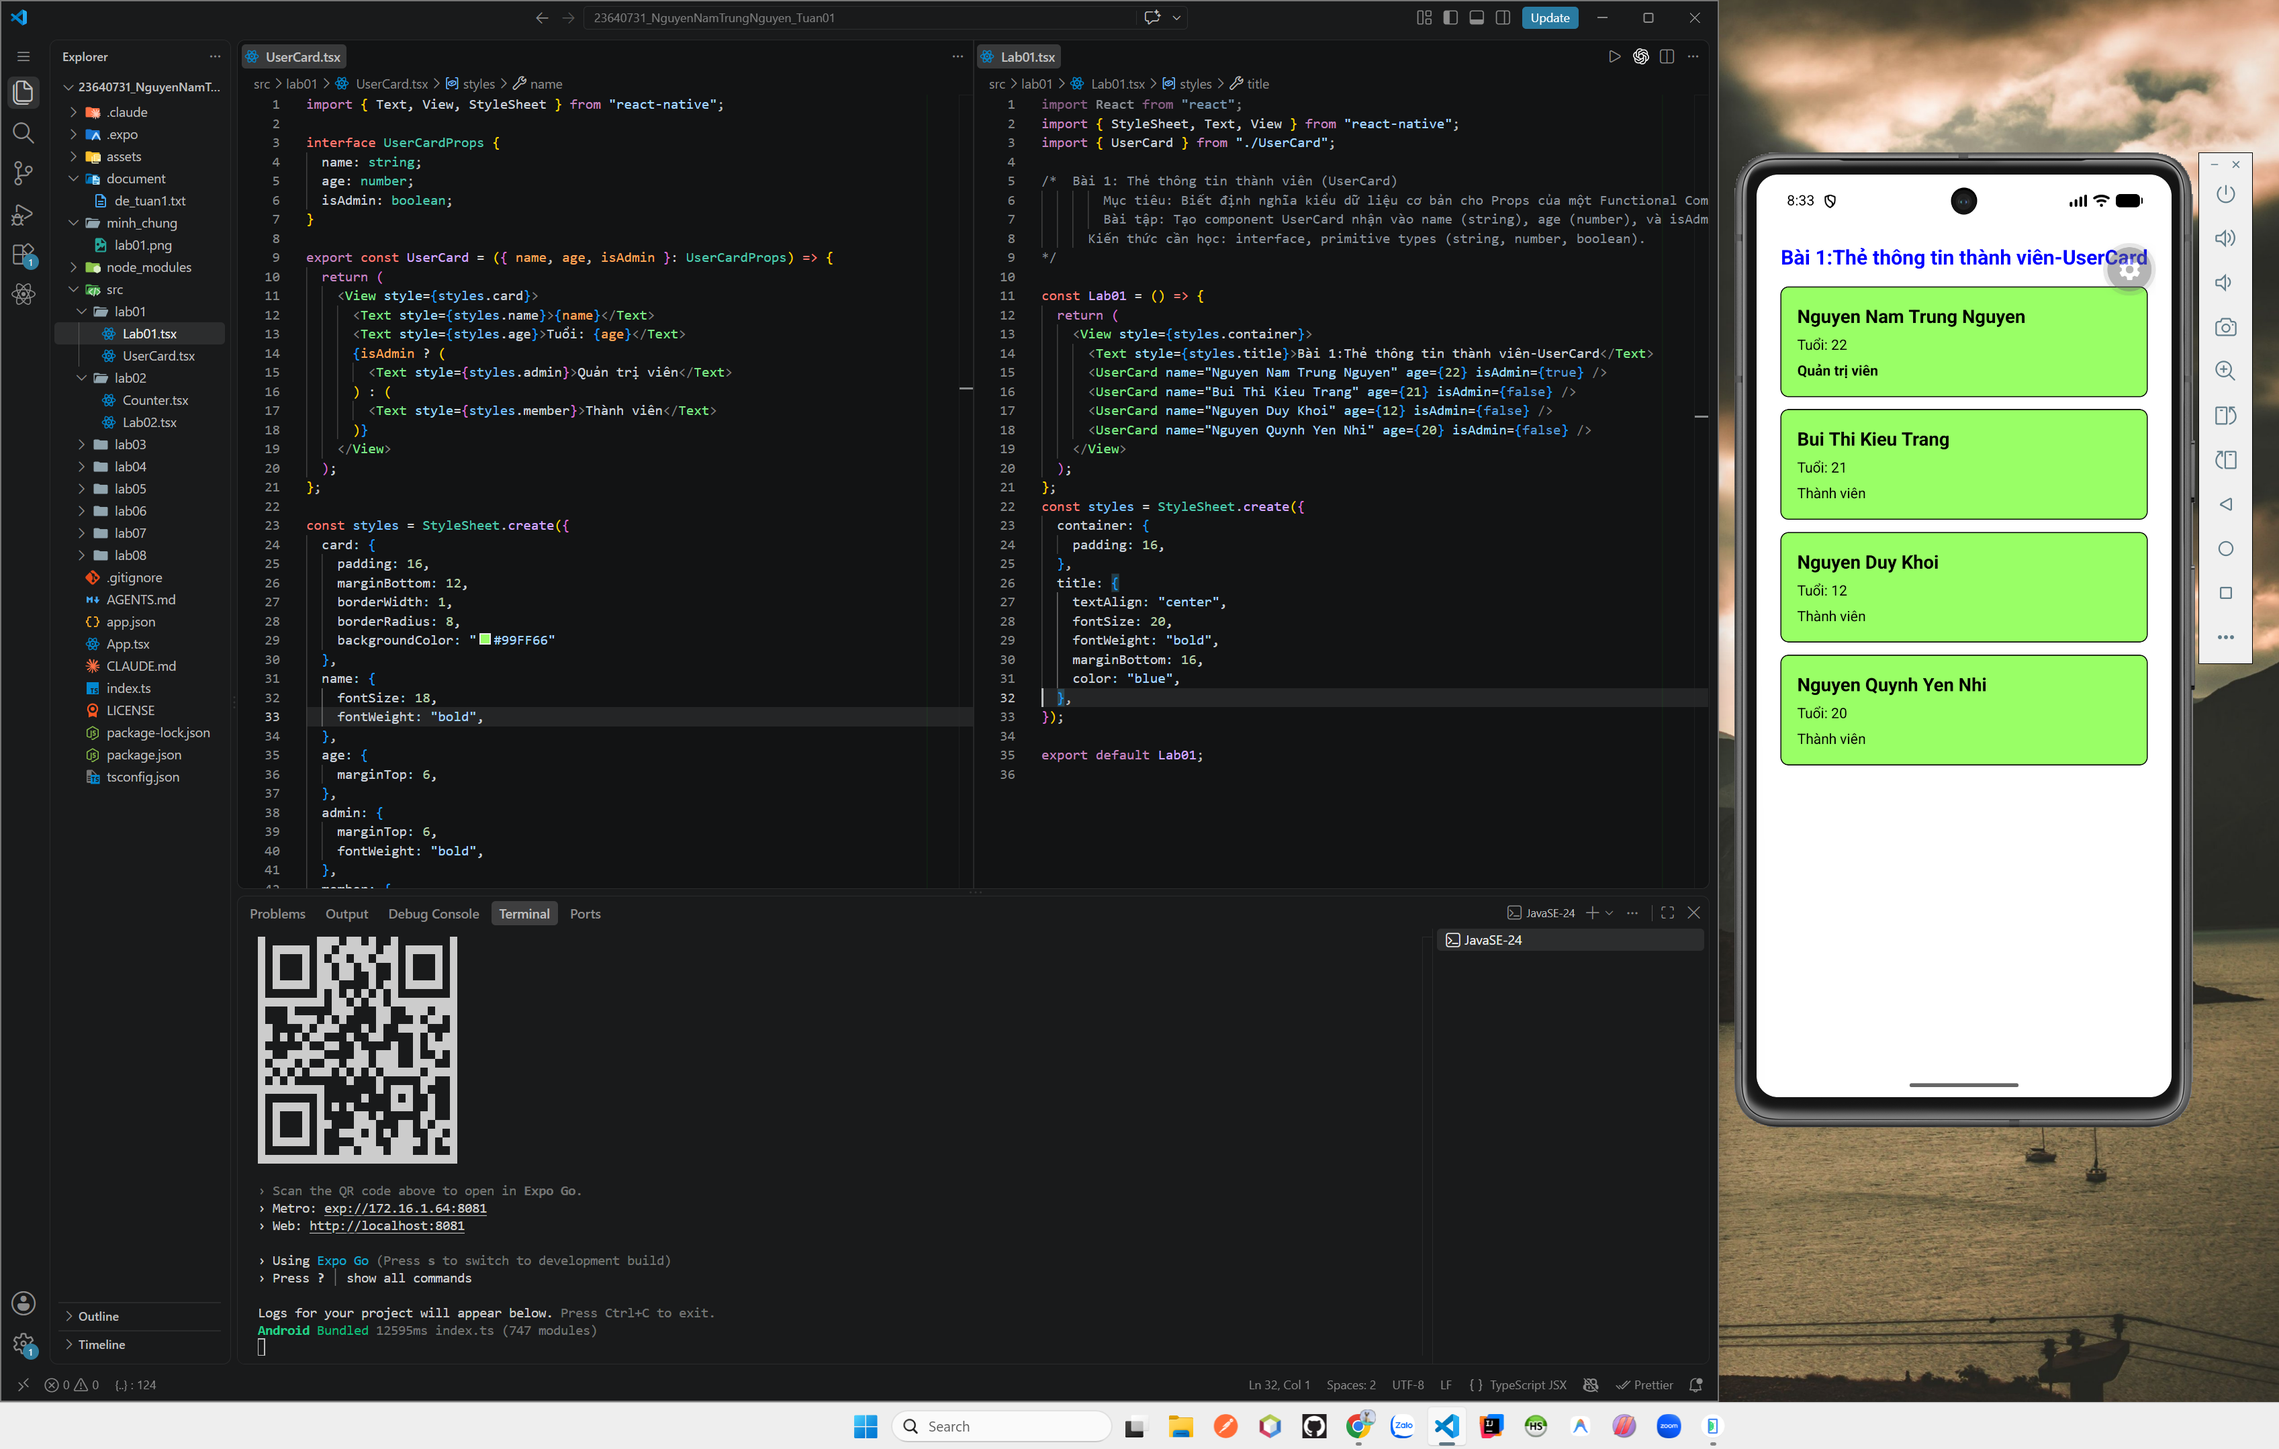
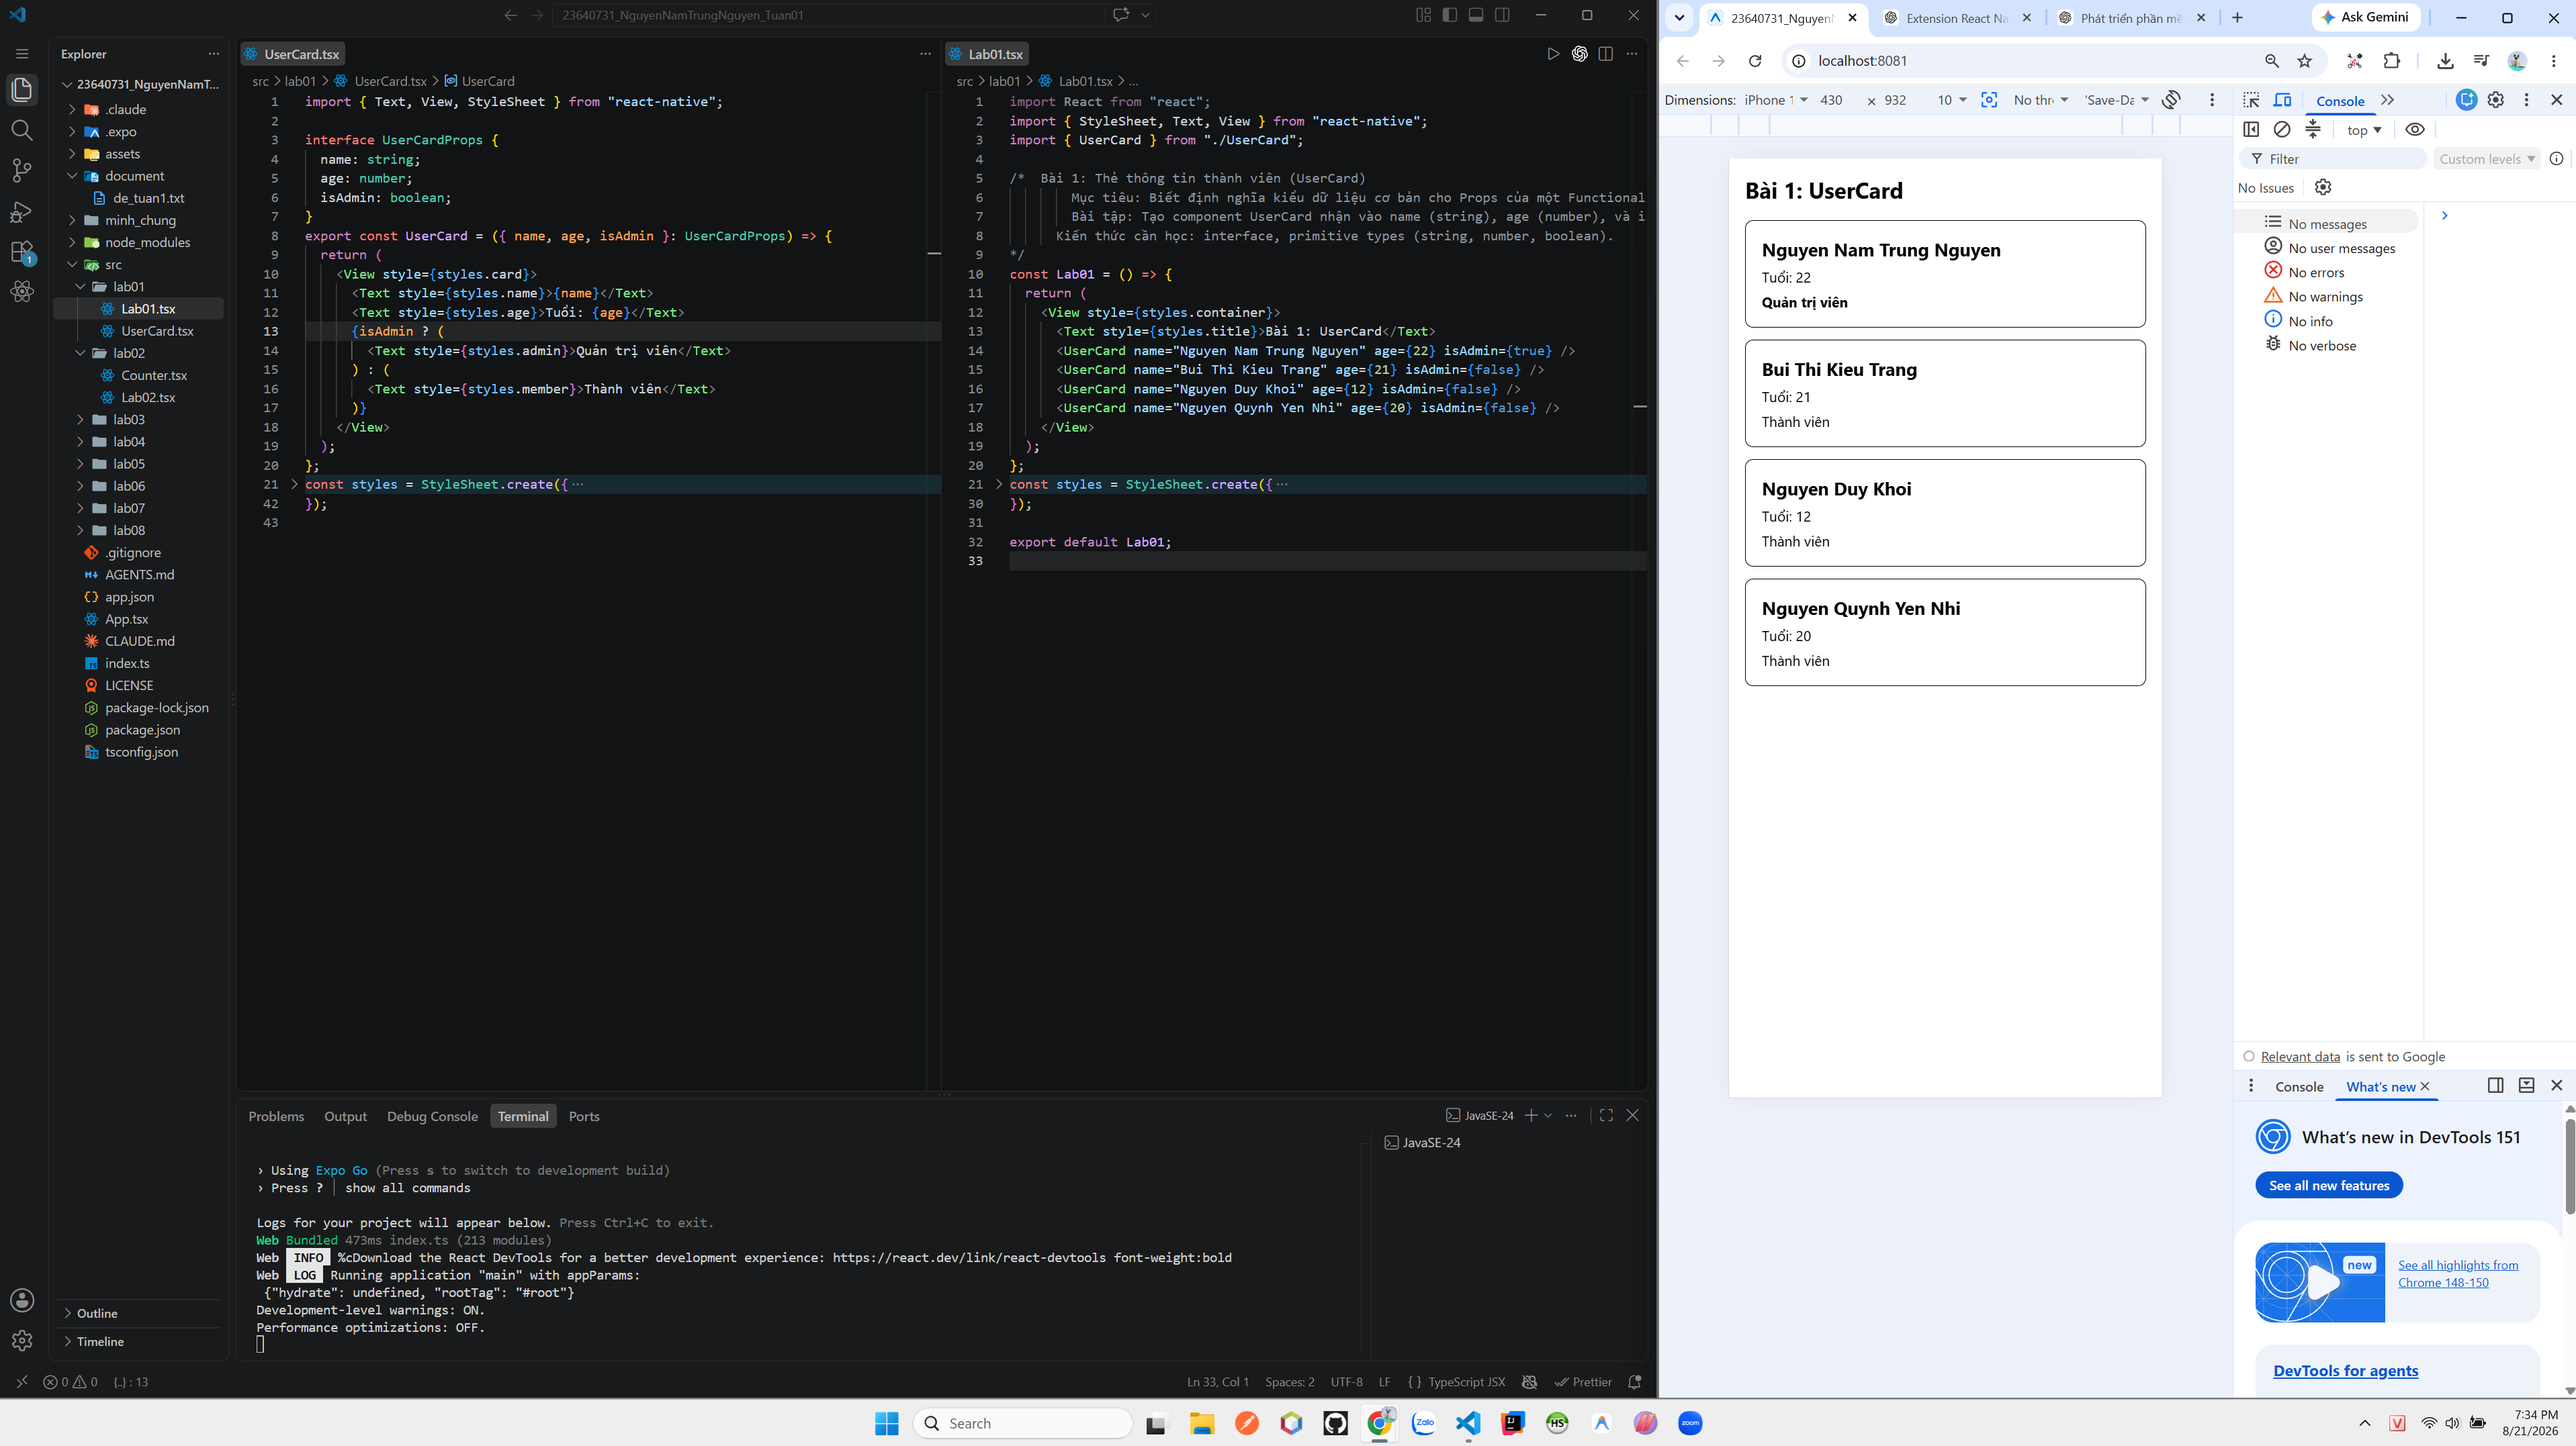
commit code lab 3

diff --git a/ReactNative-Labs-IUH/23640731_NguyenNamTrungNguyen_Tuan01/src/lab03/Lab03.tsx b/ReactNative-Labs-IUH/23640731_NguyenNamTrungNguyen_Tuan01/src/lab03/Lab03.tsx
@@ -1,0 +1,27 @@
+// Bài 3: Danh sách việc cần làm đơn giản (Todo Basic)
+// 	Mục tiêu: Quản lý State dạng mảng chứa các object có cấu trúc.
+// 	Bài tập: Tạo màn hình TodoList chứa mảng các task. Mỗi task gồm id (string) và title (string). Hiển thị ra màn hình bằng map().
+// 	Kiến thức cần học: Định nghĩa mảng object (Todo[] hoặc Array<Todo>).
+
+import { Text, View } from "react-native";
+
+export const Lab03 = () => {
+  return (
+    <View style={styles.container}>
+      <Text style={styles.title}>Bài 3: Todo Basic</Text>
+    </View>
+  );
+};
+
+const styles = StyleSheet.create({
+  container: {
+    padding: 16,
+  },
+  title: {
+    textAlign: "center",
+    fontSize: 22,
+    fontWeight: "bold",
+    marginBottom: 16,
+    color: "blue",
+  },
+});

diff --git a/ReactNative-Labs-IUH/23640731_NguyenNamTrungNguyen_Tuan01/src/lab01/Lab01.tsx b/ReactNative-Labs-IUH/23640731_NguyenNamTrungNguyen_Tuan01/src/lab01/Lab01.tsx
@@ -11,7 +11,7 @@ import { UserCard } from "./UserCard";
 const Lab01 = () => {
   return (
     <View style={styles.container}>
-      <Text style={styles.title}>Bài 1:Thẻ thông tin thành viên-UserCard</Text>
+      <Text style={styles.title}>Bài 1: UserCard</Text>
       <UserCard name="Nguyen Nam Trung Nguyen" age={22} isAdmin={true} />
       <UserCard name="Bui Thi Kieu Trang" age={21} isAdmin={false} />
       <UserCard name="Nguyen Duy Khoi" age={12} isAdmin={false} />
@@ -25,7 +25,7 @@ const styles = StyleSheet.create({
   },
   title: {
     textAlign: "center",
-    fontSize: 20,
+    fontSize: 22,
     fontWeight: "bold",
     marginBottom: 16,
     color: "blue",

diff --git a/ReactNative-Labs-IUH/23640731_NguyenNamTrungNguyen_Tuan01/src/lab03/TodoList.tsx b/ReactNative-Labs-IUH/23640731_NguyenNamTrungNguyen_Tuan01/src/lab03/TodoList.tsx
@@ -1,0 +1,39 @@
+import React, { useState } from "react";
+import { Text, View } from "react-native";
+import { tasks } from "./TodoList";
+
+
+ca
+
+interface todo {
+  id: number;
+  title: string;
+}
+
+export const tasks = [
+  {
+    id: 1,
+    title: "Learn HTML",
+  },
+  {
+    id: 2,
+    title: "Learn CSS/TAILWIND",
+  },
+  {
+    id: 3,
+    title: "Learn JAVASCRIPT",
+  },
+  {
+    id: 4,
+    title: "Learn TYPESCRIPT",
+  },
+];
+
+export const TodoList = ({ task }) => {
+  const [task, setTasks] = useState<todo[]>(tasks);
+  return (
+    <View>
+      <Text>{task.id}</Text>
+    </View>
+  );
+};

diff --git a/ReactNative-Labs-IUH/23640731_NguyenNamTrungNguyen_Tuan01/src/lab02/Lab02.tsx b/ReactNative-Labs-IUH/23640731_NguyenNamTrungNguyen_Tuan01/src/lab02/Lab02.tsx
@@ -10,7 +10,7 @@ import { Counter } from "./Counter";
 export const Lab02 = () => {
   return (
     <View style={styles.container}>
-      <Text style={styles.title}>Bài 2: Bộ đếm số tăng giảm - Counter</Text>
+      <Text style={styles.title}>Bài 2: Counter</Text>
       <Counter />
     </View>
   );
@@ -22,7 +22,7 @@ const styles = StyleSheet.create({
   },
   title: {
     textAlign: "center",
-    fontSize: 20,
+    fontSize: 22,
     fontWeight: "bold",
     marginBottom: 16,
     color: "blue",
